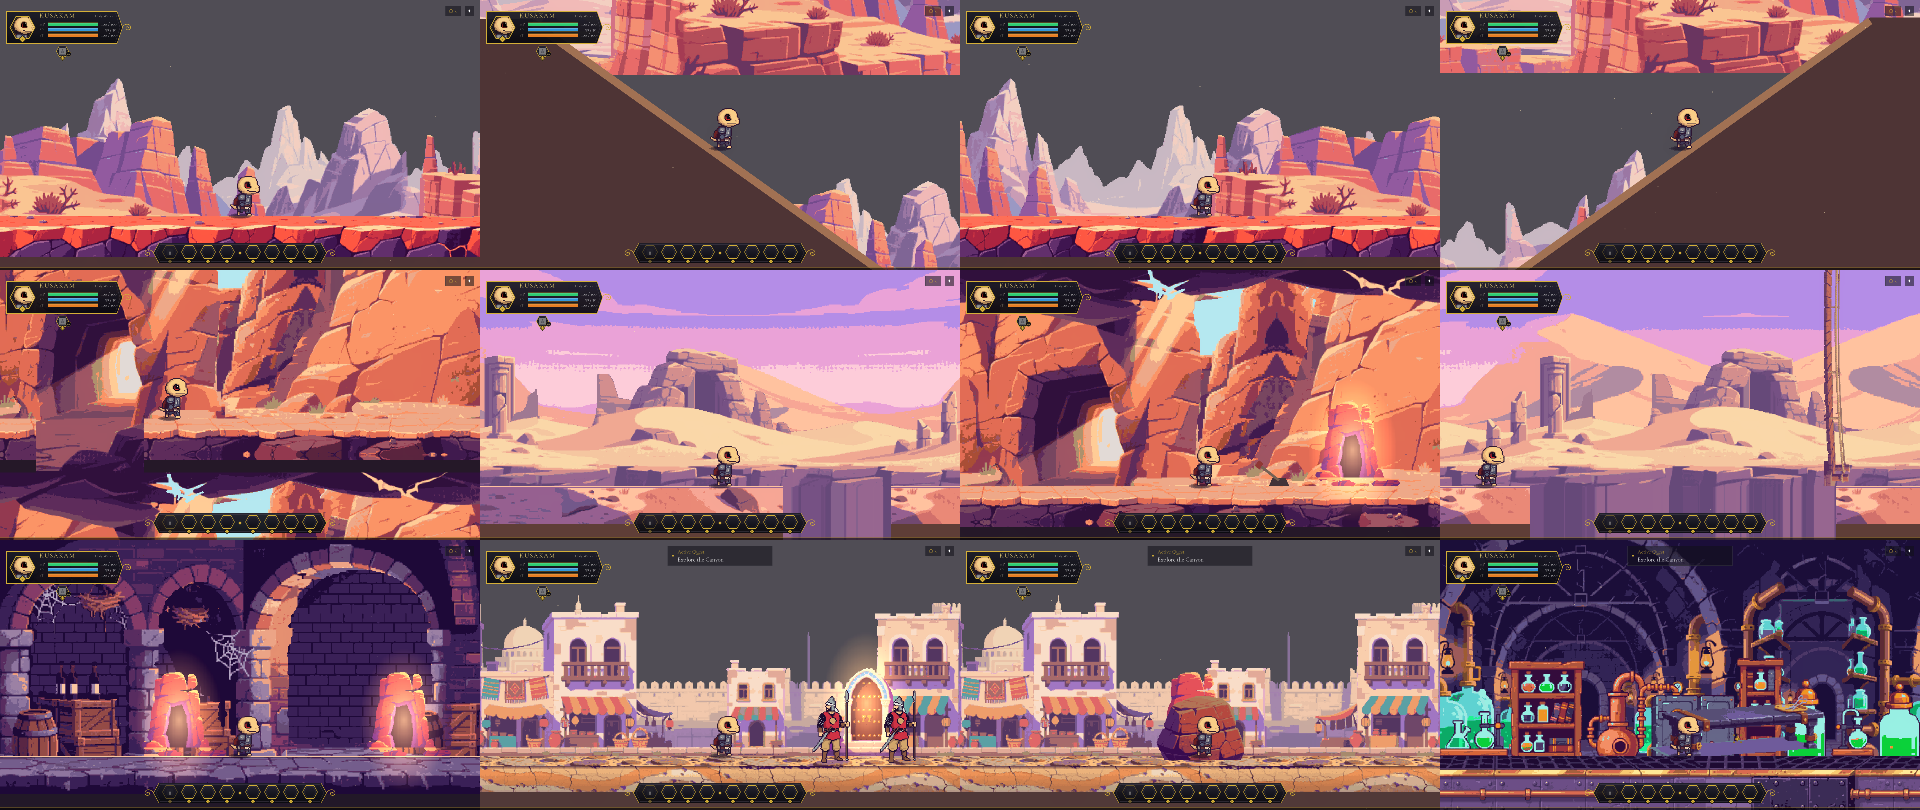
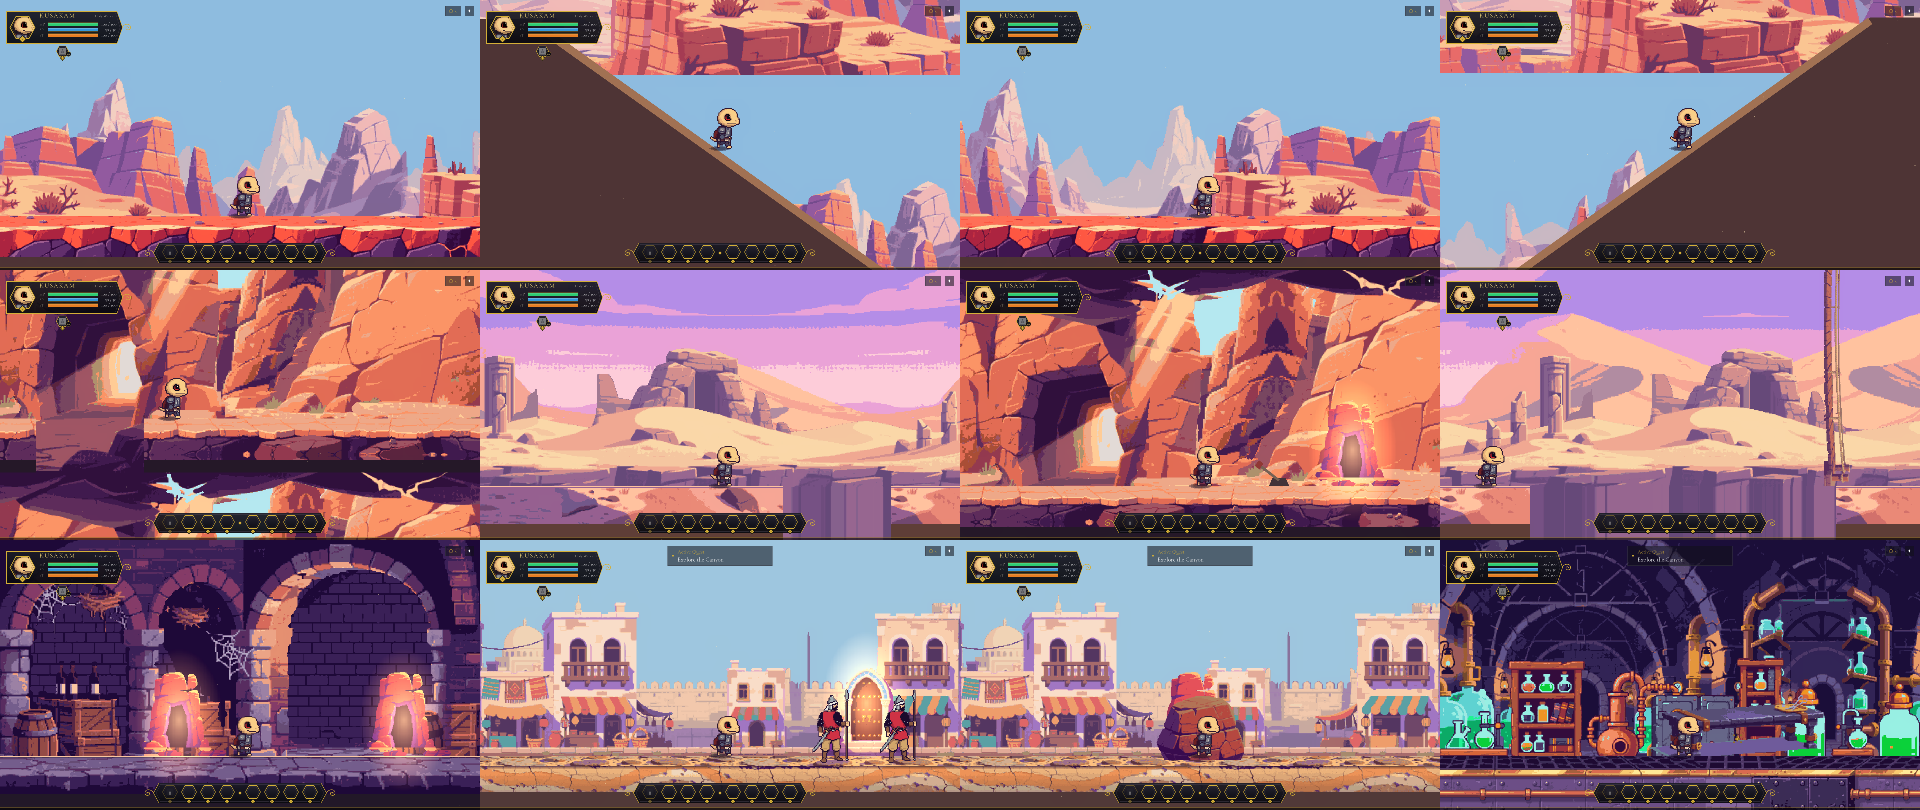
M7 world-rooms: report draft, shot with the sky planes
Claude-Session: https://claude.ai/code/session_01A2gnDWaoeJGbj3GPH4dnCF

Changed region(s): [[0.3125, 0.0, 0.9375, 0.3086], [0.25, 0.6481, 0.75, 0.8951], [0.0, 0.0, 0.25, 0.216]]

diff --git a/design/cloud_reports/world-rooms.md b/design/cloud_reports/world-rooms.md
@@ -1,0 +1,63 @@
+---
+type: cloud-report
+branch: cloud/world-rooms
+date: 2026-10-28
+---
+# Cloud report: world-rooms (M7)
+
+**Summary**
+- **Done:** all 29 missing rooms of the three region graphs are on the MetSys map and playable on placeholder backdrops: **17 in the Canyon of Whispers** (M1 v3), **8 in the City** (M3), **4 in the Laboratory** (M4). The existing rooms keep their content and moved on the map to where the graphs put them. The main road is one seamless run: canyon → mountain path → scree → gorge → ledges → village, and cave exit → Desert Road → Zahra's Rest → dunes → chasm → gate approach → City Gates → market → craft quarter → palace square. Storeys join by drops through the floor. There are no ladders and no steps on the road. Side places are reached by doors. Shortcuts are barred where you first see them and opened from the far side: two **levers** (`Lever`) and a **bridge over the chasm** (`FlagBridge`). Everything is generated by `Scripts/Tools/build_world_rooms.py`.
+- **Not done:** the Laboratory floors stay as today's 2×3 `Laboratory`, not three 5-screen zigzag floors, and the lift lever is not built, because the PC is editing that room. The bandit camp still opens off the Desert Road, not the dunes, and its gate still leads to the road's meditation spot rather than Zahra's Rest (also a PC file). Not built: the East Gate (another location), a meditation spot at the City Gate, and forge/chapel fronts in the craft quarter. The new rooms have no fights, critters or atmosphere yet, and only one chest.
+- **D-IDs:** D833–D838 below (the register ends at D832; the orchestrator renumbers).
+- **B rows fixed:** none.
+- **Full suite:** SUITE_LINE
+
+Godot 4.6.2 downloaded and ran here; every test named in the prompt was run (lines below).
+
+## D-ID text (for the orchestrator)
+
+| D | Kind | Text |
+|---|---|---|
+| D833 | ROUTINE CALL (M7) | **Every room of the region graphs is on the map, on placeholder backdrops** (Sapega 2026-10-28: «без фонів, просто додай дорогу аби-яку»; graphs D721, D773, D772). New MetSys rooms. Canyon of Whispers: **MountainPath** (3 screens), **ScreeSlide** (1×2), **StreamGorge** (3), **RockLedges** (1×2), **CaveUnderBridge** (1×3), **CaveExit** (1), **CanyonFloor** (4), **SmugglersStash** (secret, 1), **LizardCaves** (6), **MesaTop** (2), **ZahraRest** (2), **Dunes** (4), **Chasm** (1), **DryRiverbed** (1), **Aqueduct** (4), **OldRuins** (5), **GateApproach** (2). City: **CraftQuarter** (3), **PalaceSquare** (2), **Rooftops** (3), **PigeonLoft** (secret, 1), **TavernAttic** (2), **MayorArchive** (1), **Cistern** (3), **CisternStash** (secret, 2). Laboratory: **AlchemistCorridor** (3), **AlchemistStore** (2), **MalikStash** (secret, 2), **CollapsedDrain** (7, one chest). Existing rooms keep their shape and content and move on the map to the graph's place: Village (11,1), ElderHouse (13,−1), DesertRoad (4,5), LizardCave (0,6), BanditCamp (12,3), MesaClimb (6,3), CityGates (19,5), GatehouseCellar (20,7), City (21,5), MayorHall (29,5). Canyon and the Laboratory rooms stay. Each new room has: a scene, its cells in `MapData.txt`, a floor at y 384 (hidden `Foreground` tiles plus drawn floor strips), walls where no passage is, an `Arrival` marker, `RoomInstance`, music, a location (`locations.json`), a room sound (`sound_events.json`), and a uk/en name (`LocationMap.room_title`). Placeholder kits come from planes already in the game: path (`MountainPath/` far, mid and ground over a sky colour), desert (`BanditCamp/` far, `Road/` mid), cave (`LizardCave/`), cellar (`Cellar/`), interior (`ElderHouse/`, `Hall/`), city (`City/` far and near, the City terrain strip), lab (`Lab/`). Art replaces them later. The generator is `Scripts/Tools/build_world_rooms.py`: edit it there and re-run (it rewrites the new rooms and `MapData.txt` and only adds missing nodes to old rooms). |
+| D834 | ROUTINE CALL (M7) | **The road climbs on ramps and drops through holes; no ladders, no steps** (D830, D832; memory rule «no ladders»). The **scree slide** and the **rock ledges** are one ramp each (≈35°) across their 1×2 room: a `Slope` collision polygon with flat tile landings at the passages. The painted `RockLedges/` art has steps; it should become a ramp, or Sapega accepts steps on this fight-free stretch. **The descent from the canyon now lands in the cave under the bridge** (`Canyon.gd`: `CAVE_UNDER_BRIDGE`, `^"Arrival"`; the graph's «спуск ↓, згори лише вниз»). The hero then drops down three storeys in a zigzag (holes right, left, middle) into the cave exit, and walks east onto the road. `DesertRoad` still sets `canyon_exit_complete` on arrival. Other drops: the canyon floor's east end into the lizard caves; the chasm into the dry riverbed and on into the aqueduct. There is no way back up any drop: «назад у каньйон — лише наприкінці гри». The road from the bridge to the village has no enemies. |
+| D835 | ROUTINE CALL (M7) | **Shortcuts open from the far side with a lever** (world_structure_plan). New `Scenes/Gameplay/Objects/lever.tscn` + `Scripts/Gameplay/Lever.gd`: E sets a quest flag and the lever stays pulled (the flag is saved). `FlagBridge.gd` is a bridge that stands upright on the far lip and drops when its flag is set. Built: the **chasm bridge** (lever `GateApproach/BridgeLever` → `chasm_bridge_down`; until then the hero falls into the dry riverbed and goes round through the aqueduct). The **lizard caves ↔ road** passage: barred on both sides (gate `lizard_caves_shortcut`); the lever is in the caves. The **aqueduct ↔ gatehouse cellar** grate (`aqueduct_cellar`; lever in the cellar). The **cistern ↔ gatehouse cellar** grate (`cistern_cellar`; lever in the cistern, «відчинити знизу»). The **rooftops slide** down to the City Gate: `Rooftops/SlideDoor` sets `city_rooftops_slide`, and the gate's door stays shut until you have come down it (gate `city_rooftops`). Each closed gate has a one-line Kusakam bubble (`dialogue_quest/Gate_*_Locked.dqd`, uk + en, [ЧЕРНЕТКА]). |
+| D836 | ROUTINE CALL (M7, D773) | **The City street runs on past the market; the palace door moved to the palace square.** `City.tscn` lost `MayorHallDoor`, its entrance art, `MayorHallGate` (the east wall) and the two gate guards. They now stand in `PalaceSquare` (door between the guards, D449). `MayorHall/CityDoor` leads there. The market's east edge is a passage into the craft quarter. New doors in the market: `RooftopsDoor` (x 880, the ladder up a house wall), `TavernAtticDoor` (x 2450, the ladder behind the stall) and `CisternDoor` (x 2540). **The cistern is not entered by the well itself:** `Props/Well` is interactive (a drink heals), and a door on it would take the same E. The hatch stands at the market's east end instead; the art pass can paint the well shaft there or move the drink. |
+| D837 | ROUTINE CALL (M7) | **Keys named on the graphs.** **Chief's Iron Key** `leader_key`: the bandit camp fight (`Fight_Camp.reward`) gives it with the Stockade Key. It opens the well grate at Zahra's Rest into the old ruins (`ruins_well`). The old ruins run on into the aqueduct (a loop). **Mayor's Desk Key** `mayor_key`: a pickup in the Mayor Hall at x 380, before the queue. It opens the bookshelf door to the archive (`mayor_archive`). **Alchemist's Key** `alchemist_key`: a pickup on the table (`Lab/gen_table.png`) in the alchemist's corridor. It opens the storeroom (`alchemist_store`). **Malik's stash**: the slab in his cell is a flag gate on `lab_acquaintance_complete` («розмова»). Names and descriptions are in en.po/uk.po and items.json. |
+| D838 | ROUTINE CALL (M7) | **The Laboratory gets its side rooms through door nodes only**, because the PC is removing its platforms. Added to `Laboratory.tscn`: `StairsDoor` (floor 1, x 330) to the alchemist's corridor (its storeroom behind a key door), and `DrainDoor` (floor 3, x 1200, the grate) to the collapsed drain. Added to `LabCells.tscn`: `StashDoor` (Malik, x 1450) and `DrainDoor` (the hatch, x 900), the drain's other end. Floors 1–3 stay one 2×3 room; the guard's pocket and the courtyard (`LaboratoryOutside`) already exist. Not built: three 5-screen zigzag floors, and the lever lift from the hall door up to the entrance meditation. Both wait for the PC's Laboratory merge. |
+
+**Open (non-blocking) for `questions_for_sapega.md`:**
+- **Q-a:** Where does the bandit camp open: the road (today) or the dunes (graph)? And does its back gate lead to Zahra's Rest (graph) or the road's meditation spot (today)? Default: move both after the PC's DesertRoad merge, with `BanditCamp/ExitDoor` and `ShortcutDoor` re-targeted.
+- **Q-b:** Should the rock ledges be steps (the painted art) or a ramp (built, D830)? Default: the ramp.
+- **Q-c:** Where should the mayor's key lie? Default: the hall floor before the queue. The archive is effectively after the demo, since the hall fight takes the hero to the Laboratory.
+- **Q-d:** The cistern is entered by a hatch, because the well is a drink (D836). Default as built.
+
+## Details
+
+**Map** (`MapData.txt`, layer 0 unless noted; `[x,y]` is the room's top-left cell)
+
+| Row | Rooms west → east |
+|---|---|
+| −1…0 | ElderHouse [13,−1] (2 high), DragonMural [1,0] |
+| 1 | Canyon [0,1] (+ [0,2]) · MountainPath [3,1] · ScreeSlide [6,1] (1×2) · RockLedges [10,1] (1×2) · Village [11,1] (3×2) |
+| 2 | CaveUnderBridge [3,2] (1×3) · StreamGorge [7,2] |
+| 3 | MesaTop [4,3] · MesaClimb [6,3] (1×2) · BanditCamp [12,3] · PigeonLoft [20,3] |
+| 4 | Rooftops [19,4] · TavernAttic [23,4] · MayorArchive [29,4] |
+| 5 (road) | CanyonFloor [−1,5] · CaveExit [3,5] · DesertRoad [4,5] · ZahraRest [10,5] · Dunes [12,5] · Chasm [16,5] · GateApproach [17,5] · CityGates [19,5] · City [21,5] · CraftQuarter [24,5] · PalaceSquare [27,5] · MayorHall [29,5] |
+| 6 | SmugglersStash [−1,6] · LizardCave [0,6] · LizardCaves [2,6] · DryRiverbed [16,6] |
+| 7 | OldRuins [11,7] · Aqueduct [16,7] · GatehouseCellar [20,7] · Cistern [22,7] |
+| 8 | CisternStash [24,8] |
+| layer 2 | AlchemistCorridor [15,2] · AlchemistStore [18,2] · LabCells [12,3] · Laboratory [14,3] · MalikStash [12,4] · LabBoss [16,5] · LaboratoryOutside [18,5] · CollapsedDrain [12,8] |
+
+**Doors** (both ways; arrival = the partner door): CanyonFloor/StashDoor ↔ SmugglersStash (behind a breakable wall); LizardCave/DeepCavesDoor ↔ LizardCaves/ShrineDoor; LizardCaves/RoadDoor ↔ DesertRoad/LizardCavesDoor (x 4400, lever); MesaClimb/MesaTopDoor (top ledge) ↔ MesaTop/ClimbDoor; ZahraRest/WellDoor ↔ OldRuins/WellDoor (key); GateApproach/AqueductDoor ↔ Aqueduct/ApproachDoor; Aqueduct/CellarDoor ↔ GatehouseCellar/AqueductDoor (lever); City/RooftopsDoor ↔ Rooftops/LadderDoor; Rooftops/SlideDoor ↔ CityGates/RooftopsDoor (shortcut); Rooftops/LoftDoor ↔ PigeonLoft (behind boards); City/TavernAtticDoor ↔ TavernAttic; City/CisternDoor ↔ Cistern/WellDoor; Cistern/CellarDoor ↔ GatehouseCellar/CisternDoor (lever); Cistern/StashDoor ↔ CisternStash (cracked wall); PalaceSquare/MayorHallDoor ↔ MayorHall/CityDoor; MayorHall/ArchiveDoor ↔ MayorArchive (key); Laboratory/StairsDoor ↔ AlchemistCorridor; AlchemistCorridor/StoreDoor ↔ AlchemistStore (key); LabCells/StashDoor ↔ MalikStash (flag); LabCells/DrainDoor ↔ CollapsedDrain/HatchDoor; Laboratory/DrainDoor ↔ CollapsedDrain/GrateDoor.
+
+**What existing PC-edited rooms got (node additions only, for the merge):** `DesertRoad.tscn`: one ext_resource (`cave_mouth_sheet.png`, id `m7_1`) and the nodes `LizardCavesDoorEntrance` + `LizardCavesDoor` (x 4400, where the floor is 384 now and after flattening, and out of `OccluderRock2`'s camera window). `Laboratory.tscn`: ext_resources `m7_*`, nodes `StairsDoorEntrance`, `StairsDoor`, `DrainDoorEntrance`, `DrainDoor`. If flattening moves floor 1 (y 384) or floor 3 (y 1344) at x 330 / 1200, move the doors' y with them. No floor geometry was changed in either file.
+
+**Other code:** `Canyon.gd` (descent target), `City.gd` (header comment), `BanditCamp.tscn` (`leader_key` reward), `MayorHall.tscn` (`CityDoor` → PalaceSquare), `gates.json` (+8), `items.json` (+3), `locations.json`, `sound_events.json`, en.po/uk.po (29 room names, «Pull», 3 keys), 16 `.dqd`.
+
+**Tests** (Linux, Godot 4.6.2):
+- `verify_world_rooms` (new): **RESULT: ALL PASS** (316 checks). Every room is reachable from the Canyon (edges, drops, doors, the two story teleports). Every door works both ways. Every gate's key or flag has a source in the game. Every new room has Arrival / RoomInstance / Music / location / sound / uk name. With real input: the hero stands on the floor at each new room's Arrival; the chasm drops him into the riverbed; the lever lowers the bridge and move_right runs across; the cellar lever opens the aqueduct grate from both sides.
+- `verify_map_geometry`, `verify_locations`, `verify_scripts_compile`, `verify_save_load_room`, `verify_world_map`, `verify_room_entrances` (19 new rooms added to its list, every door crossed both ways with E; TIMEOUT 900), `verify_canyon_exit` (now ends in the cave and walks the zigzag to the road): **ALL PASS**.
+- `verify_camera_transitions`: every edge passage and every door both ways. Before the descent fix it had 1 FAIL, the descent expectation; now it targets the cave (TIMEOUT 900; 393 s here). CAMERA_LINE
+- Updated for the new map: `verify_progression` and `verify_city_life` (the palace door on the square), `verify_flying_enemies` (its hero no longer steps west off the road into the cave exit), `verify_gates` and `verify_rooms_batch1` (unchanged, pass).
+- Shot: `design/shots/world_rooms.png` (4×3: path, scree, gorge, ledges, cave under the bridge, canyon floor and its hole, lizard caves with the lever, the chasm with the bridge up, aqueduct, palace square with the door and guards, rooftops, alchemist's corridor), via `capture_world_rooms.gd`.
+- Notes: the `room-content` and `story-and-dialogue` skills are not in this checkout (`.claude/` is gitignored), so the locked-gate lines follow the existing `Gate_*_Locked` drafts. Saves made before this branch keep their explored cells at the old coordinates, so the map of an old save shows a few wrong cells until they are walked again.
